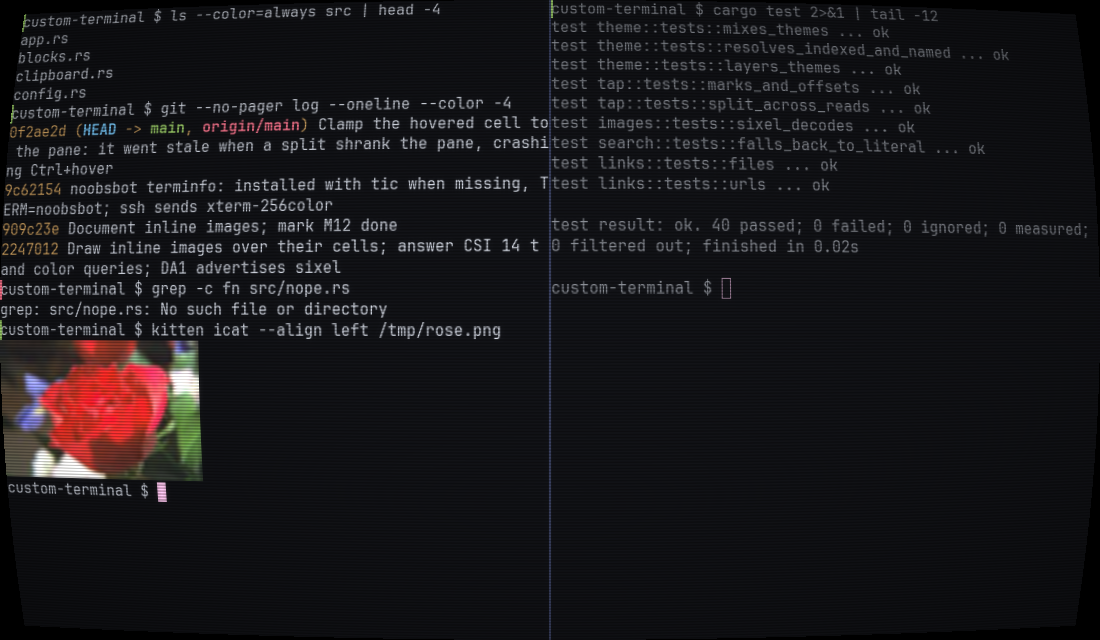
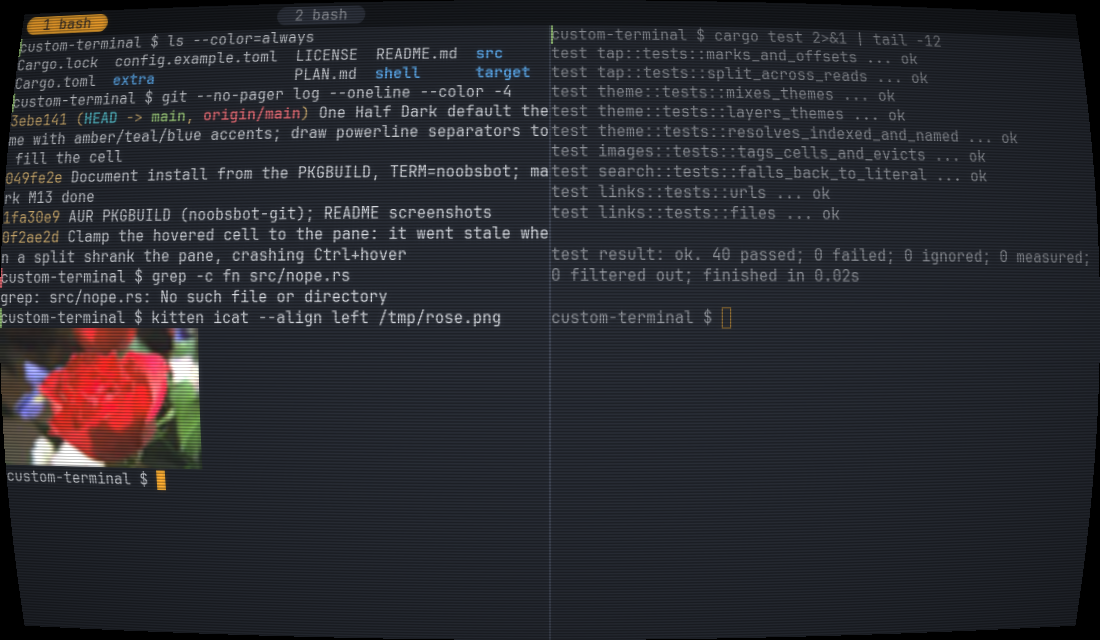
README: new look, refreshed screenshots

diff --git a/README.md b/README.md
@@ -106,7 +106,12 @@ constantly.
 
 ## Situation themes
 
-Built-in themes: `default`, `danger`, `root`, `careful`, `night`. Rules in the
+Built-in themes: `default`, `danger`, `root`, `careful`, `night`. `default` is
+One Half Dark with the warm amber, teal and blue of powerline prompts (as in
+[Pretty PowerShell](https://christitus.com/pretty-powershell/)); tabs, the
+palette and the search bar use the same rounded pill look, tinted by each
+pane's theme. Powerline separators (U+E0B0–E0B7) are drawn by the terminal to
+fill the cell exactly, so oh-my-posh and starship prompts join without seams. Rules in the
 config pick one based on what's happening in the terminal; the first rule whose
 conditions all match wins, and the switch fades in over 150 ms. Every pane
 picks its own theme, and each tab carries its pane's accent color, so an SSH
